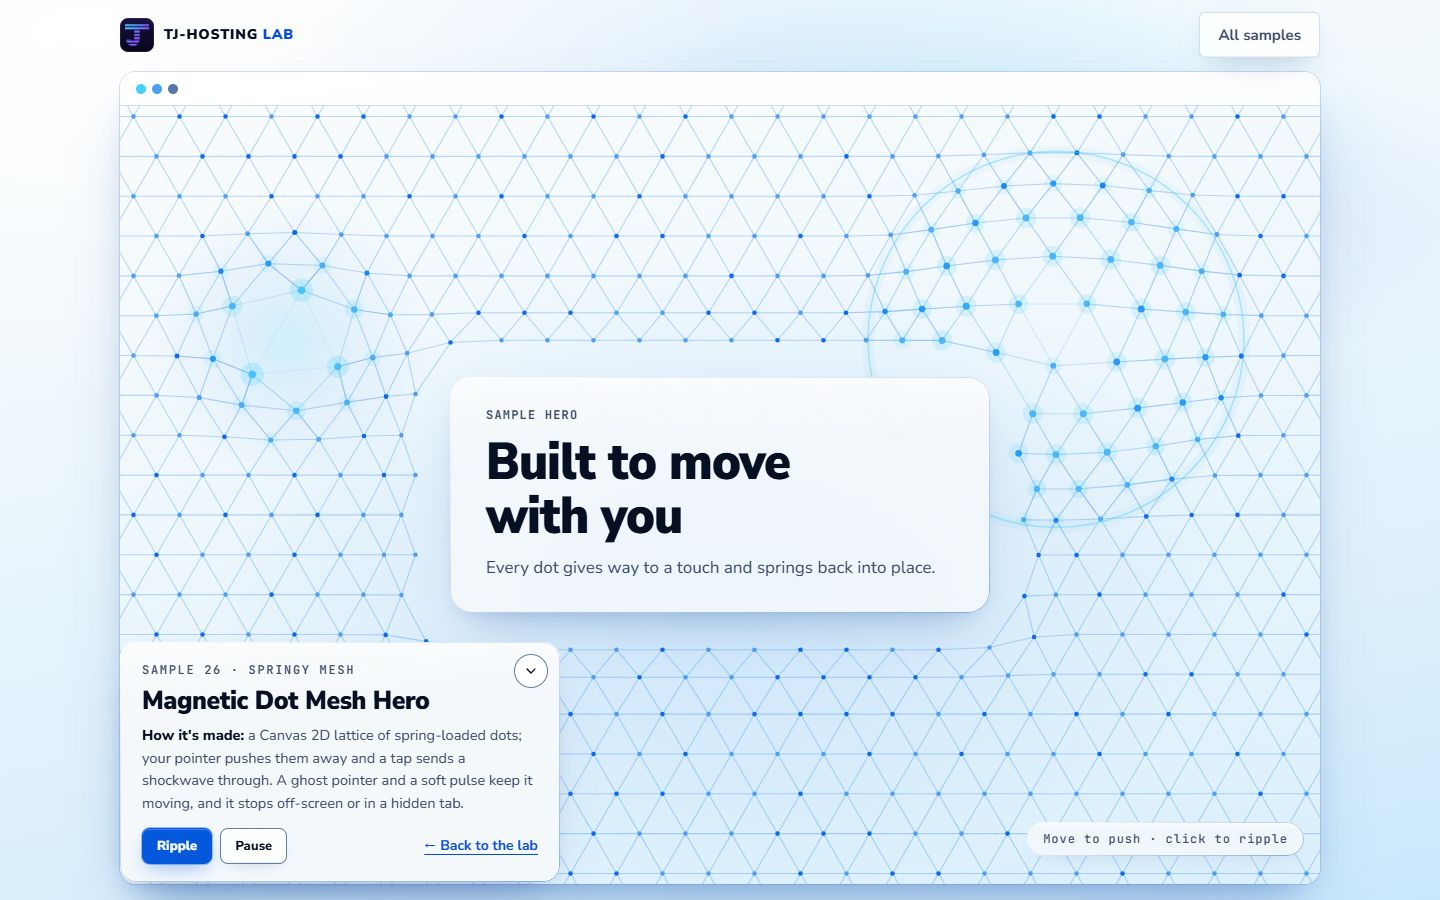
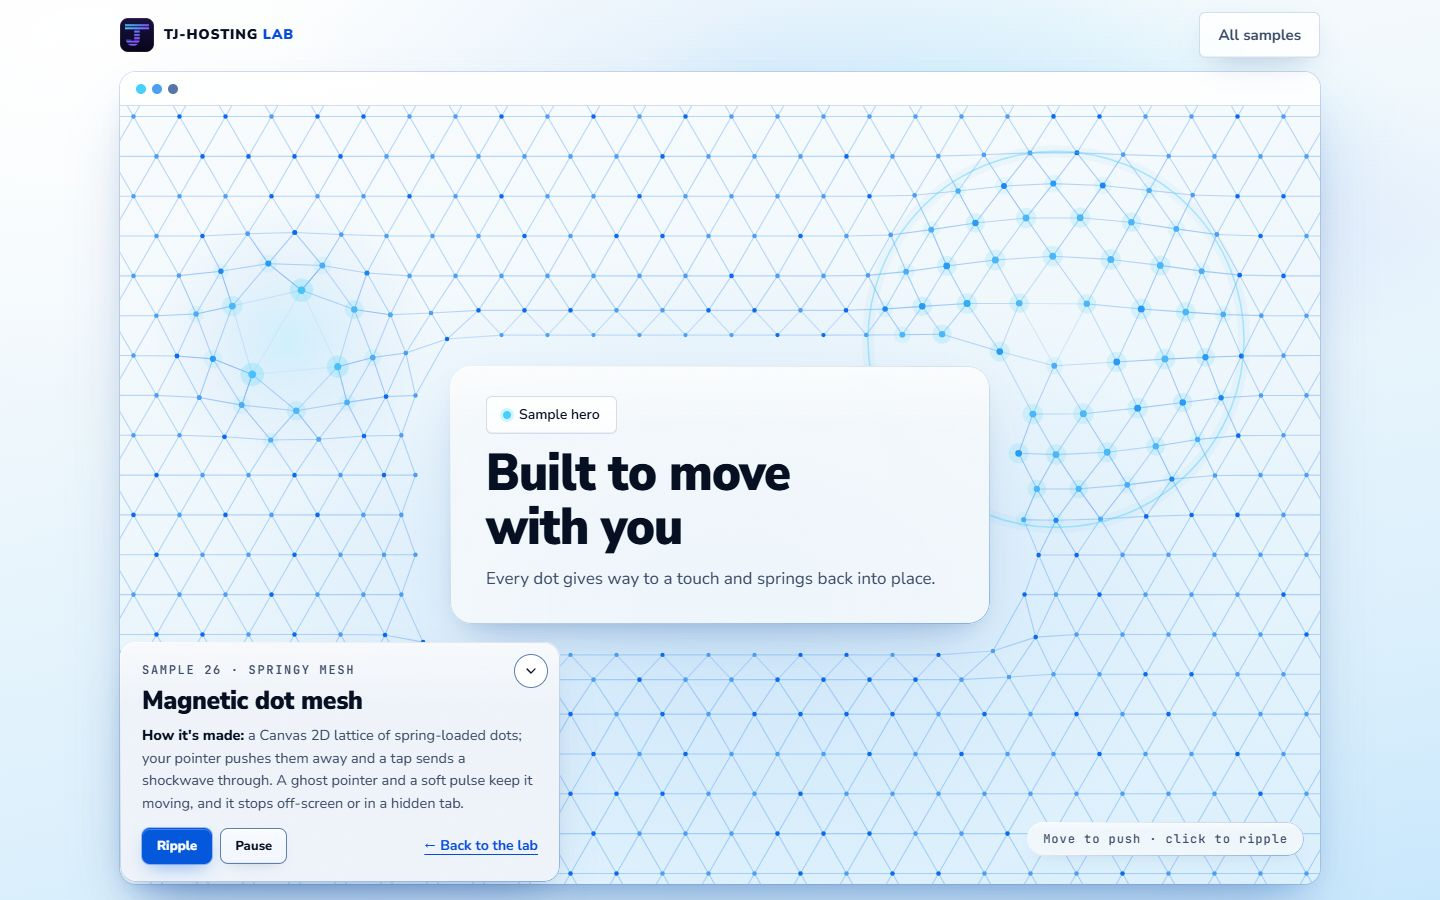
improve(lab-05): one disclaimer chip style across the samples
Per the blind review: sample and disclaimer labels came in four styles. Six samples move to the shared .pill with its cyan dot in sans (on edge-network-globe's night window the same chip in navy glass); liquid-glass-lens's script now writes only the chip's words so the dot stays. All six re-checked: PASS.

diff --git a/samples/liquid-glass-lens/piece.js b/samples/liquid-glass-lens/piece.js
@@ -42,6 +42,7 @@ const backdropImg = backdrop.querySelector('img');
 const navEl = document.getElementById('lens-nav');
 const roundEl = document.getElementById('lens-round');
 const stateEl = document.getElementById('lens-state');
+const stateText = document.getElementById('lens-state-text'); // the chip's words (its cyan dot stays)
 const cardEl = document.getElementById('lens-card'); // the plain frosted stand-in, shown only without the lenses
 const panelEl = document.querySelector('.sample-info');
 const hintEl = document.querySelector('.hint');
@@ -251,7 +252,7 @@ function tick(dt, t) {
 function applyPreset(i) {
 	const p = PRESETS[i];
 	if (mode === 'on') lenses.card.set(p);
-	stateEl.textContent = `Sample UI · Lens: ${p.name}`;
+	stateText.textContent = `Sample UI · Lens: ${p.name}`;
 }
 
 /* plain frosted glass: the labels keep their .glass look and the card is a frosted stand-in moved by transform */
@@ -264,7 +265,7 @@ function useFrosted() {
 	root.dataset.lens = 'off';
 	cardEl.hidden = false;
 	roundEl.disabled = true;
-	stateEl.textContent = 'Sample UI · Plain frosted glass';
+	stateText.textContent = 'Sample UI · Plain frosted glass';
 	hintEl.textContent = 'Frosted glass';
 	layout(true);
 }
@@ -322,7 +323,7 @@ function makeLenses() {
 
 async function start() {
 	boot();
-	stateEl.textContent = `Sample UI · Lens: ${PRESETS[presetIndex].name}`;
+	stateText.textContent = `Sample UI · Lens: ${PRESETS[presetIndex].name}`;
 
 	// the sample menu goes nowhere: it only moves its highlight
 	navEl.addEventListener('click', (ev) => {

diff --git a/samples/glass-hero-kit/piece.css b/samples/glass-hero-kit/piece.css
@@ -29,11 +29,12 @@
 	align-self: center;
 	margin: 0;
 	padding: 5px 14px;
-	font: 600 12px/18px var(--font-mono);
-	letter-spacing: 0.08em;
-	text-transform: uppercase;
+	/* the Lab's one chip (lab-05 P5 review): sans, ink, a cyan dot */
+	font: 600 13.5px/20px var(--font-sans);
+	letter-spacing: 0;
+	text-transform: none;
 	text-align: center;
-	color: var(--muted);
+	color: var(--ink);
 	white-space: normal;
 }
 noscript .note { text-transform: none; letter-spacing: 0; }
@@ -302,7 +303,7 @@ noscript .note { text-transform: none; letter-spacing: 0; }
 	/* room under the last card so it can scroll clear of the fixed panel */
 	.kit-stage { padding-top: 76px; padding-bottom: 340px; }
 	.piece-open { gap: 12px; }
-	.note { font-size: 11px; padding: 4px 12px; letter-spacing: 0.06em; }
+	.note { font-size: 12.5px; padding: 4px 12px; }
 	.kit-hero { padding: 16px 16px 20px; }
 	.kit-hero__top { margin-bottom: 14px; }
 	.kit-hero__lede { font-size: 15.5px; line-height: 24px; }

diff --git a/samples/integration-beams/piece.css b/samples/integration-beams/piece.css
@@ -21,11 +21,12 @@
 .note {
 	margin: 0;
 	padding: 5px 14px;
-	font: 600 12px/18px var(--font-mono);
-	letter-spacing: 0.08em;
-	text-transform: uppercase;
+	/* the Lab's one chip (lab-05 P5 review): sans, ink, a cyan dot */
+	font: 600 13.5px/20px var(--font-sans);
+	letter-spacing: 0;
+	text-transform: none;
 	text-align: center;
-	color: var(--muted);
+	color: var(--ink);
 	white-space: normal;
 }
 noscript .note { text-transform: none; letter-spacing: 0; }
@@ -174,7 +175,7 @@ button.node__tile:disabled { cursor: default; color: var(--ink); transform: none
 @media (max-width: 760px) {
 	.hub-stage { padding-top: 76px; }
 	.piece-open { gap: 10px; }
-	.note { font-size: 11px; padding: 4px 12px; letter-spacing: 0.06em; }
+	.note { font-size: 12.5px; padding: 4px 12px; }
 	.hub {
 		--hub-h: clamp(280px, calc(100vh - 400px), 440px);
 		--hub-h: clamp(280px, calc(100dvh - 400px), 440px);

diff --git a/samples/liquid-hover-gallery/piece.css b/samples/liquid-hover-gallery/piece.css
@@ -102,11 +102,12 @@
 .note {
 	margin: 0;
 	padding: 5px 14px;
-	font: 600 12px/18px var(--font-mono);
-	letter-spacing: 0.08em;
-	text-transform: uppercase;
+	/* the Lab's one chip (lab-05 P5 review): sans, ink, a cyan dot */
+	font: 600 13.5px/20px var(--font-sans);
+	letter-spacing: 0;
+	text-transform: none;
 	text-align: center;
-	color: var(--muted);
+	color: var(--ink);
 	white-space: normal;
 }
 .note[hidden] { display: none; }
@@ -119,7 +120,7 @@
 	.piece-open.gallery { --gap: 10px; --pad: 6px; --r: 10px; gap: 12px; }
 	.card { gap: 6px; padding-bottom: 8px; }
 	.card__label { font-size: 15px; }
-	.note { font-size: 11px; padding: 4px 12px; letter-spacing: 0.06em; }
+	.note { font-size: 12.5px; padding: 4px 12px; }
 }
 
 /* a short, wide window (a phone on its side): the panel is at the left, so the row sits to the right of it */

diff --git a/samples/liquid-glass-lens/index.html b/samples/liquid-glass-lens/index.html
@@ -75,7 +75,7 @@
 		<button class="lens-ui lens-round glass" id="lens-round" type="button" aria-label="Change the lens: gentle, strong or inverted">
 			<svg viewBox="0 0 24 24" fill="none" stroke="currentColor" stroke-width="1.9" stroke-linecap="round" stroke-linejoin="round" aria-hidden="true"><circle cx="9.2" cy="12" r="5.6"/><circle cx="14.8" cy="12" r="5.6"/></svg>
 		</button>
-		<p class="pill lens-state" id="lens-state" role="status">Sample UI · Lens: strong</p>
+		<p class="pill lens-state" id="lens-state" role="status"><span class="pill__dot" aria-hidden="true"></span><span id="lens-state-text">Sample UI · Lens: strong</span></p>
 		<div class="lens-card glass glass--xl" id="lens-card" role="group" aria-label="Frosted card (the glass lens is not available here)" hidden></div>
 	</div>
 

diff --git a/samples/dot-mesh-hero/index.html b/samples/dot-mesh-hero/index.html
@@ -49,7 +49,7 @@
 			<canvas class="piece" role="img" aria-label="A lattice of blue dots joined by faint lines on a pale sky. The dots spring away from a pointer and ripple outward in soft waves, and they part around a frosted glass headline card in the middle."></canvas>
 			<div class="hero">
 				<section class="hero__card glass glass--xl" data-shine aria-labelledby="hero-title">
-					<p class="hero__tag">Sample hero</p>
+					<p class="hero__tag"><span class="pill"><span class="pill__dot" aria-hidden="true"></span>Sample hero</span></p>
 					<h2 id="hero-title" class="hero__title">Built to move with you</h2>
 					<p class="hero__lede">Every dot gives way to a touch and springs back into place.</p>
 				</section>

diff --git a/samples/integration-beams/index.html b/samples/integration-beams/index.html
@@ -46,7 +46,7 @@
 	<!-- stage C: open sky. The hub is built from real DOM tiles; the beams are drawn on the canvas under them by piece.js -->
 	<main id="main" class="stage hub-stage" data-motion>
 		<div class="piece-open">
-			<p class="note pill">Sample content · no real connections</p>
+			<p class="note pill"><span class="pill__dot" aria-hidden="true"></span>Sample content · no real connections</p>
 
 			<section class="hub" id="hub" aria-label="A site tile joined by beams of light to six tiles: Domain, Email, Forms, Payments, CDN and Backups. Tap a tile to send its beam.">
 				<span class="hub__ring" aria-hidden="true"></span>

diff --git a/samples/edge-network-globe/piece.css b/samples/edge-network-globe/piece.css
@@ -82,8 +82,12 @@
 	left: 14px;
 	margin: 0;
 	padding: 6px 14px;
-	font: 600 12px/16px var(--font-mono);
-	letter-spacing: 0.05em;
+	display: inline-flex;
+	align-items: center;
+	gap: 8px;
+	/* the Lab's one chip in navy glass (lab-05 P5 review): sans, a cyan dot */
+	font: 600 13px/18px var(--font-sans);
+	letter-spacing: 0;
 	color: var(--ink);
 }
 
@@ -123,5 +127,5 @@
 
 @media (max-width: 720px) {
 	.chip { padding: 2px 9px 2px 7px; font-size: 11px; line-height: 16px; gap: 6px; }
-	.badge { top: 44px; left: 10px; padding: 5px 12px; font-size: 11px; }
+	.badge { top: 44px; left: 10px; padding: 5px 12px; font-size: 12px; }
 }

diff --git a/samples/liquid-hover-gallery/index.html b/samples/liquid-hover-gallery/index.html
@@ -64,8 +64,8 @@
 				</button>
 				<canvas class="gallery__gl" aria-hidden="true"></canvas>
 			</div>
-			<p class="note pill">Sample images</p>
-			<p class="note note--fallback pill" role="status" hidden>Sample images. This browser can't run WebGL, so each card shows its first picture.</p>
+			<p class="note pill"><span class="pill__dot" aria-hidden="true"></span>Sample images</p>
+			<p class="note note--fallback pill" role="status" hidden><span class="pill__dot" aria-hidden="true"></span>Sample images. This browser can't run WebGL, so each card shows its first picture.</p>
 		</div>
 	</main>
 

diff --git a/samples/edge-network-globe/index.html b/samples/edge-network-globe/index.html
@@ -57,7 +57,7 @@
 				<div class="globe-fallback__disc" role="img" aria-label="A flat picture of a dark blue globe with a cyan glow."></div>
 				<p class="globe-fallback__note glass glass--pill" data-night>This browser can't run WebGL, so here is a still picture.</p>
 			</div>
-			<p class="badge glass glass--pill" data-night>Illustrative · not a real network</p>
+			<p class="badge glass glass--pill" data-night><span class="pill__dot" aria-hidden="true"></span>Illustrative · not a real network</p>
 		</div>
 	</main>
 

diff --git a/samples/glass-hero-kit/index.html b/samples/glass-hero-kit/index.html
@@ -48,7 +48,7 @@
 		<div class="aurora" id="aurora" aria-hidden="true"></div>
 
 		<div class="piece-open">
-			<p class="note pill">Sample content · placeholder figures</p>
+			<p class="note pill"><span class="pill__dot" aria-hidden="true"></span>Sample content · placeholder figures</p>
 
 			<section class="kit-hero glass glass--soft glass--xl" aria-labelledby="hero-title">
 				<div class="kit-hero__top">

diff --git a/samples/dot-mesh-hero/piece.css b/samples/dot-mesh-hero/piece.css
@@ -27,13 +27,7 @@
 	pointer-events: auto;
 	color: var(--ink);
 }
-.hero__tag {
-	margin: 0 0 12px;
-	font: 700 12px/16px var(--font-mono);
-	letter-spacing: 0.1em;
-	text-transform: uppercase;
-	color: var(--muted);
-}
+.hero__tag { margin: 0 0 12px; } /* holds the Lab's one chip (lab-05 P5 review) */
 .hero__title {
 	margin: 0 0 12px;
 	font: 900 clamp(32px, 4.4vw, 52px) / 1.04 var(--font-display);
